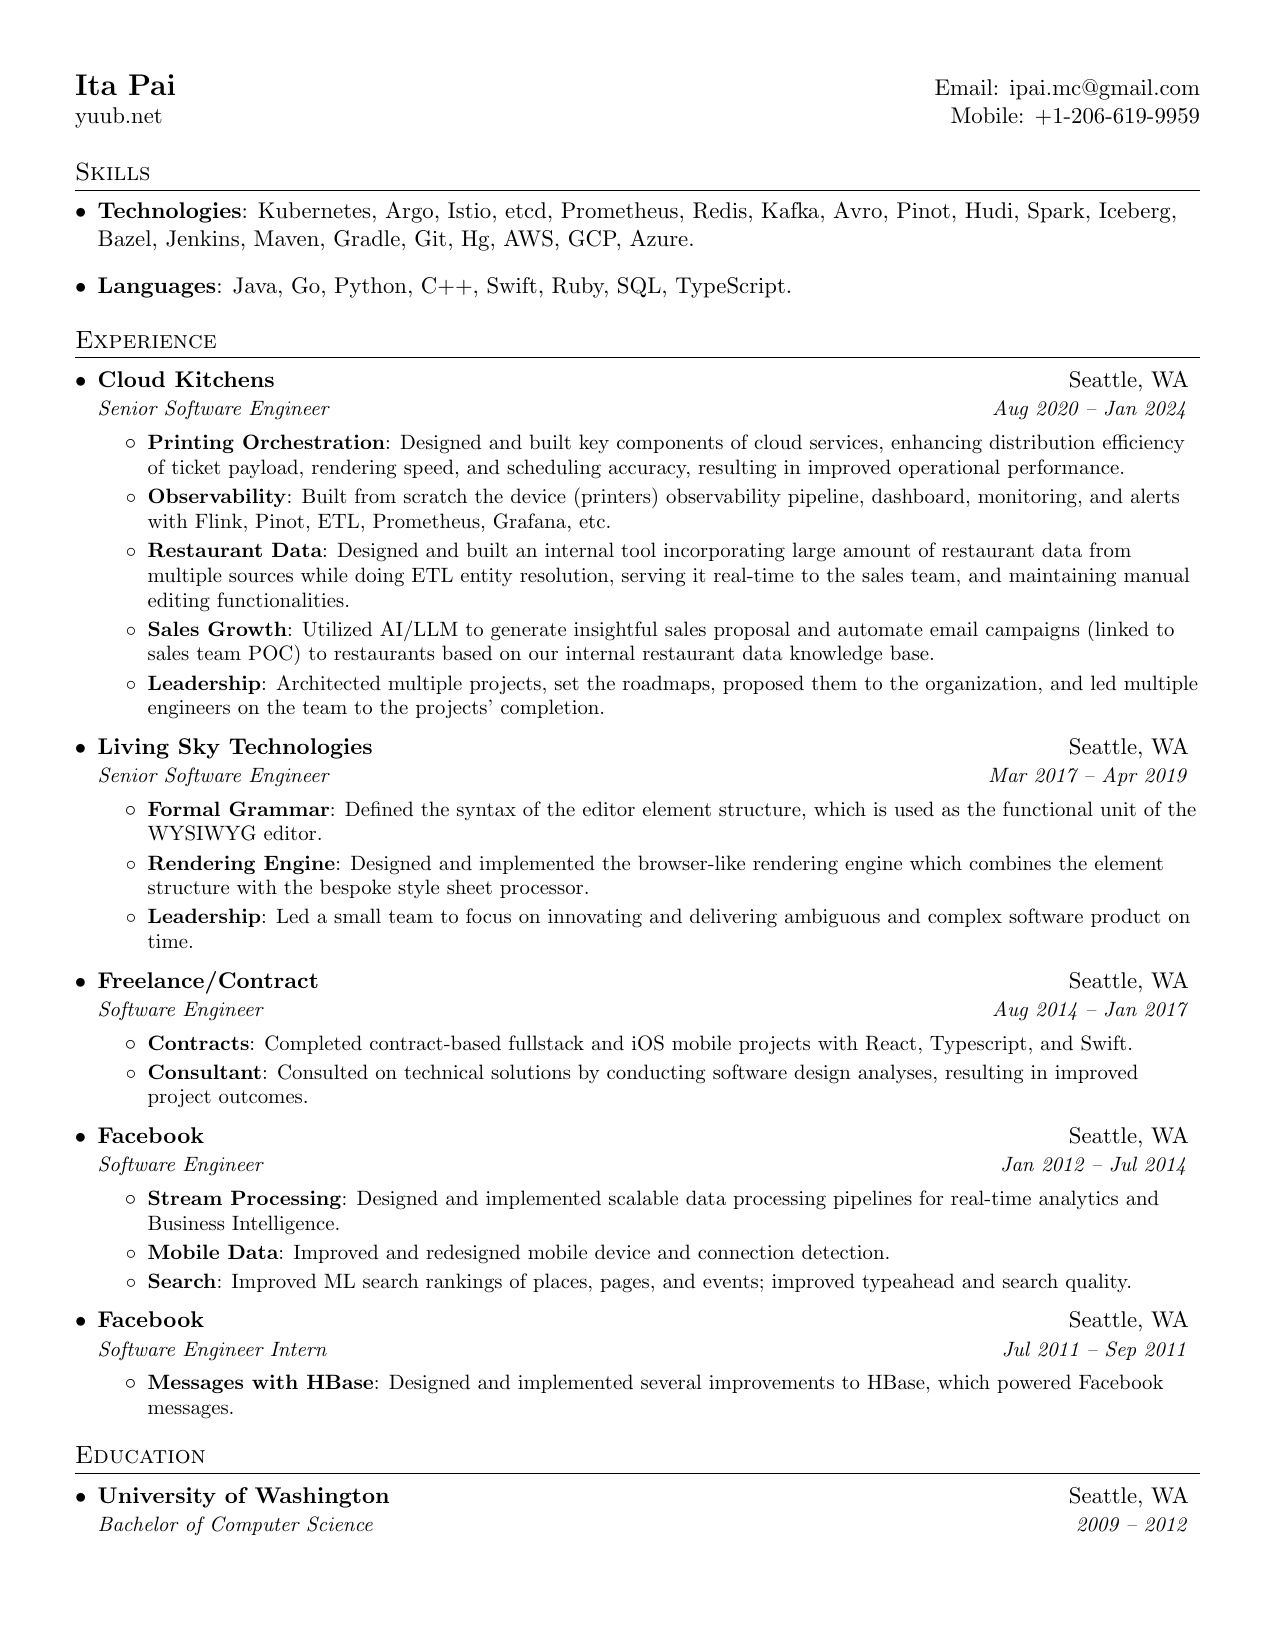
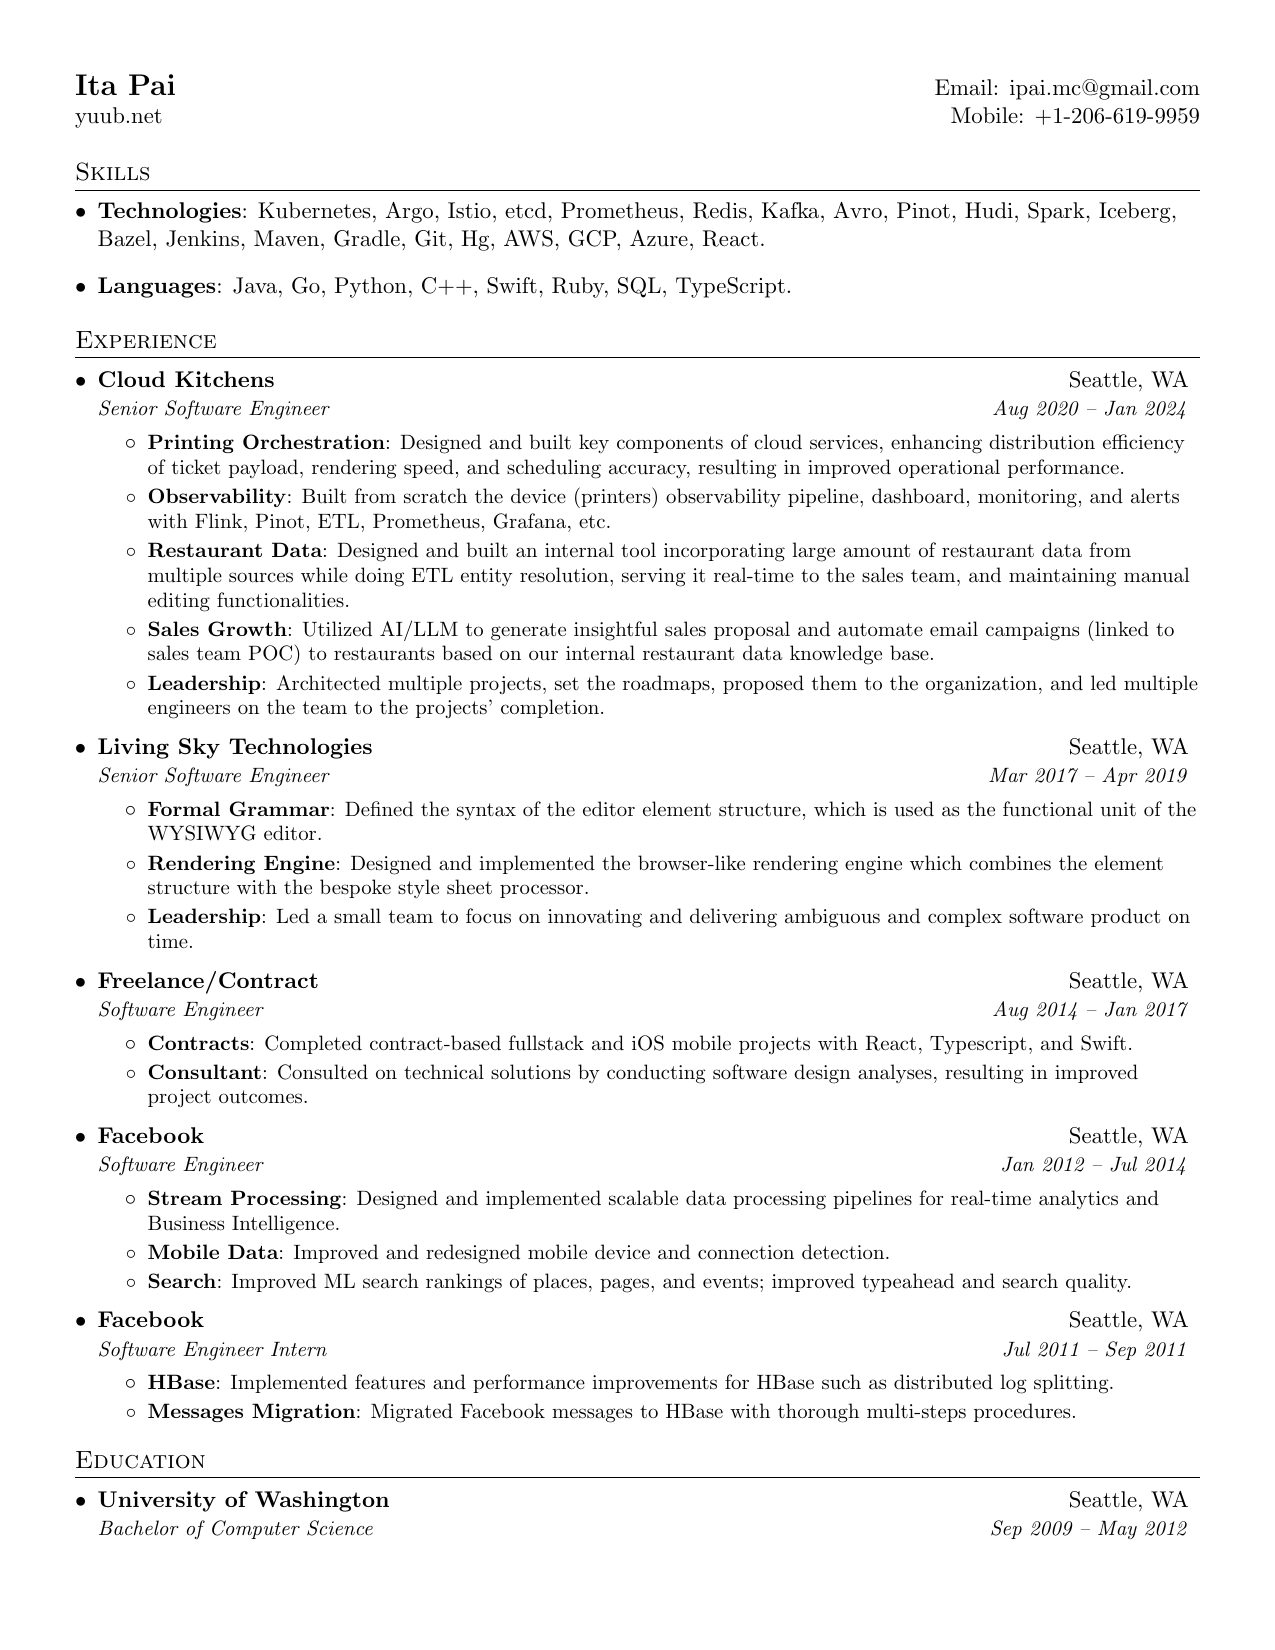
put back commit/push action and modified the resume

Changed region(s): [[0.0612, 0.8345, 0.8871, 0.9273], [0.8259, 0.8964, 0.9482, 0.9273], [0.5506, 0.1236, 0.5812, 0.1545]]

diff --git a/resume.tex b/resume.tex
@@ -97,7 +97,7 @@
 \section{Skills}
   \resumeSubHeadingListStart
     \item{
-      \textbf{Technologies}{: Kubernetes, Argo, Istio, etcd, Prometheus, Redis, Kafka, Avro, Pinot, Hudi, Spark, Iceberg, Bazel, Jenkins, Maven, Gradle, Git, Hg, AWS, GCP, Azure.}
+      \textbf{Technologies}{: Kubernetes, Argo, Istio, etcd, Prometheus, Redis, Kafka, Avro, Pinot, Hudi, Spark, Iceberg, Bazel, Jenkins, Maven, Gradle, Git, Hg, AWS, GCP, Azure, React.}
     }
     \item{
       \textbf{Languages}{: Java, Go, Python, C++, Swift, Ruby, SQL, TypeScript.}
@@ -163,8 +163,10 @@
       {Facebook}{Seattle, WA}
       {Software Engineer Intern}{Jul 2011 -- Sep 2011}
       \resumeItemListStart
-        \resumeItem{Messages with HBase}
-          {Designed and implemented several improvements to HBase, which powered Facebook messages.}
+        \resumeItem{HBase}
+          {Implemented features and performance improvements for HBase such as distributed log splitting.}
+        \resumeItem{Messages Migration}
+          {Migrated Facebook messages to HBase with thorough multi-steps procedures.}
       \resumeItemListEnd
   \resumeSubHeadingListEnd
 
@@ -174,7 +176,7 @@
   \resumeSubHeadingListStart
     \resumeSubheading
       {University of Washington}{Seattle, WA}
-      {Bachelor of Computer Science}{2009 -- 2012}
+      {Bachelor of Computer Science}{Sep 2009 -- May 2012}
   \resumeSubHeadingListEnd
 
 
